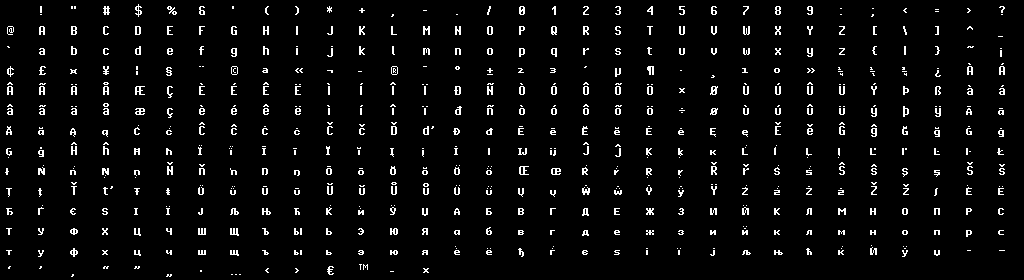
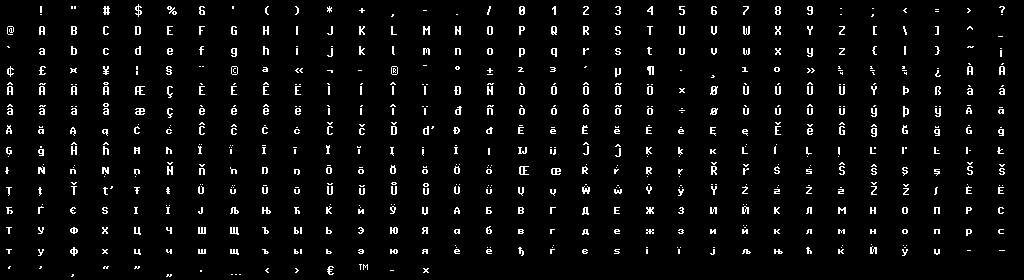
Russian pass: Cyrillic (and Pixeloid's other glyphs) lifted a pixel so its 7 px capitals sit centred where PixelOperator's 9 are (they sat a pixel low in every button); every column as wide as its words in either language (the stat names 43 for "Выносливость", the bars 20; the stats screen's now 21,

diff --git a/mods/animals/src/screen.rs b/mods/animals/src/screen.rs
@@ -496,17 +496,21 @@ const OVERVIEW_GAP: f32 = 6.0;
 const GENE_LINES: usize = 40;
 /// The Genes page's list: taller, it has the page to itself.
 const GENES_PAGE_H: f32 = 110.0;
-/// (28 wide, from 32, so the window fits 380 with its columns as wide as their headings.)
-const STAT_BAR: (f32, f32) = (28.0, 6.0);
+/// The stat names' column: as wide as the longest name in either language ("Выносливость" 42.5 GUI
+/// px: at 34 it was shrunk to 80%, the Russian pass); the bars 20 to make room, so the window still
+/// fits 380 with every column as wide as its words.
+const STAT_NAME_W: f32 = 43.0;
+const STAT_BAR: (f32, f32) = (20.0, 6.0);
 /// The stat rows' columns after the bar: the value (right-aligned), wild and tamed points
 /// (centred), then the + (GUI pixels).
-const STAT_VALUE_W: f32 = 18.0;
+/// ("152%" is 16.5 GUI px)
+const STAT_VALUE_W: f32 = 17.0;
 /// (as wide as their headings, "Wild" 13.5 and "Tamed" 19.5 GUI px: narrower, the row shrank them,
 /// PC runs fit1280 and fit760b)
 const STAT_WILD_W: f32 = 14.0;
 const STAT_TAMED_W: f32 = 20.0;
 /// A stat row's whole width, for the divider over torpor.
-const STAT_ROW_W: f32 = 8.0 + 3.0 + 34.0 + 3.0 + STAT_BAR.0 + 3.0 + STAT_VALUE_W + 3.0 + STAT_WILD_W + 3.0 + STAT_TAMED_W + 3.0 + 10.0;
+const STAT_ROW_W: f32 = 8.0 + 3.0 + STAT_NAME_W + 3.0 + STAT_BAR.0 + 3.0 + STAT_VALUE_W + 3.0 + STAT_WILD_W + 3.0 + STAT_TAMED_W + 3.0 + 10.0;
 
 /// The screen of a tame animal (`notes/ui/BATCHES.md`, the taming and stats upgrade): who it is
 /// and how it is on the left, its stats as bars in the middle, its coat and orders on the right.
@@ -668,7 +672,7 @@ fn animal_screen(ui: &mut Ui) {
             // the empty heading room beside it: in a row the longer Russian ones ("Дикий" 17.5,
             // "Ручной" 20.5 GUI px) were shrunk to the columns' 14 and 20.
             ui.row(S::row().size(STAT_ROW_W, 8.5), |ui| {
-                let wild = 8.0 + 3.0 + 34.0 + 3.0 + STAT_BAR.0 + 3.0 + STAT_VALUE_W + 3.0;
+                let wild = 8.0 + 3.0 + STAT_NAME_W + 3.0 + STAT_BAR.0 + 3.0 + STAT_VALUE_W + 3.0;
                 let tamed = wild + STAT_WILD_W + 3.0;
                 for (x, w, key) in [(wild, STAT_WILD_W, "screen.animals.wild_points"), (tamed, STAT_TAMED_W, "screen.animals.tamed_points")] {
                     ui.text_styled(S::default().class("dim").no_wrap().at_pivot(x + w / 2.0, 0.0, [0.5, 0.0]), key, &[]);
@@ -680,7 +684,7 @@ fn animal_screen(ui: &mut Ui) {
                 }
                 ui.row(S::row().gap(3.0).center(), |ui| {
                     ui.image(&format!("base:gui/stat_icon_{name}"), 8.0, 8.0);
-                    ui.text_styled(S::default().w(34.0).no_wrap(), &format!("stat.animals.{name}"), &[]);
+                    ui.text_styled(S::default().w(STAT_NAME_W).no_wrap(), &format!("stat.animals.{name}"), &[]);
                     ui.row(S::row().size(STAT_BAR.0, STAT_BAR.1), move |ui| {
                         // One bar per quality on the same place: the one matching its wild points shows.
                         for q in 0..5usize {
@@ -1258,7 +1262,8 @@ fn taming_hud(r: &mut Registry) {
                     t.set("hud.animals.taming.who", &[Arg::Key(&format!("entity.animals.{}", s.kind_name()))]);
                 });
                 ui.row(S::row().gap(3.0).center(), |ui| {
-                    ui.text_bind_styled(S::default().w(30.0).no_wrap(), |c, t| {
+                    // as wide as "Приручено" (31 GUI px; at 30 it was shrunk, the Russian pass)
+                    ui.text_bind_styled(S::default().w(32.0).no_wrap(), |c, t| {
                         if being_tamed(c).is_some() { t.set("hud.animals.taming.bar", &[]) } else { t.text("") }
                     });
                     ui.progress_bind("life_taming", S::default().size(LIFE_BAR.0, LIFE_BAR.1), |c| {

diff --git a/mods/base/src/levels.rs b/mods/base/src/levels.rs
@@ -245,8 +245,12 @@ fn after(v: &base_api::Vitals) -> base_api::Vitals {
 
 /// The stats screen's columns after the bar (GUI pixels): the value now (right-aligned), its unit,
 /// the value after the waiting points (right-aligned), the points waiting (centred).
-const NOW_W: f32 = 18.0;
-const UNIT_W: f32 = 16.0;
+/// (as wide as their words in either language: "сейчас" 20.5 and "units" 17.5 GUI px were shrunk
+/// at 18 and 16, the Russian pass)
+const NOW_W: f32 = 21.0;
+/// The stat names' column, as wide as the longest in either language ("Выносливость", 42.5 GUI px).
+const NAME_W: f32 = 43.0;
+const UNIT_W: f32 = 18.0;
 const AFTER_W: f32 = 18.0;
 const WAITING_W: f32 = 8.0;
 
@@ -329,7 +333,7 @@ fn client(r: &mut Registry) {
                 // The header in the rows' columns: "now" over the values, "after" over what the
                 // waiting points make of them, each lined up as its values are (right).
                 ui.row(S::row().gap(4.0), |ui| {
-                    ui.row(S::row().w(8.0 + 4.0 + 40.0 + 4.0 + STAT_BAR.0), |_| {});
+                    ui.row(S::row().w(8.0 + 4.0 + NAME_W + 4.0 + STAT_BAR.0), |_| {});
                     ui.row(S::row().w(NOW_W).end(), |ui| ui.text_styled(S::default().class("dim").no_wrap(), "levels.base.now_head", &[]));
                     ui.row(S::row().w(UNIT_W), |_| {});
                     ui.row(S::row().w(AFTER_W).end(), |ui| {
@@ -339,7 +343,7 @@ fn client(r: &mut Registry) {
                 for (i, stat) in stats::ALL.into_iter().enumerate() {
                     ui.row(S::row().gap(4.0).center(), |ui| {
                         ui.image(&format!("base:gui/stat_icon_{}", stat.name()), 8.0, 8.0);
-                        ui.text_styled(S::default().w(40.0).no_wrap(), &format!("stat.base.{}", stat.name()), &[]);
+                        ui.text_styled(S::default().w(NAME_W).no_wrap(), &format!("stat.base.{}", stat.name()), &[]);
                         ui.progress_bind(
                             Box::leak(format!("stat_{}", stat.name()).into_boxed_str()),
                             S::default().size(STAT_BAR.0, STAT_BAR.1),

diff --git a/mods/base/source/ui/font_bake.py b/mods/base/source/ui/font_bake.py
@@ -154,8 +154,12 @@ def pixel_main(path, also=None):
             if c != " " and not has_glyph(p, c):
                 continue
             img = Image.new("L", (cw, ch))
-            # every font's baseline on the first one's
-            ImageDraw.Draw(img).text((PAD, top + ascent - f.getmetrics()[0]), c, font=f, fill=255)
+            # every font's baseline on the first one's, a font with smaller capitals lifted by half
+            # the difference so its capitals sit centred where the first one's are (Pixeloid's
+            # Cyrillic capitals are 7 px to PixelOperator's 9: on the same baseline they sat a pixel
+            # low in every button, the Russian pass, 11-04)
+            lift = (cap_h - (f.getbbox("H")[3] - f.getbbox("H")[1])) // 2 if f is not f0 else 0
+            ImageDraw.Draw(img).text((PAD, top + ascent - f.getmetrics()[0] - lift), c, font=f, fill=255)
             img = img.point(lambda v: 255 if v >= 128 else 0)
             a = np.asarray(img)
             cols = np.nonzero(a.max(0))[0]

diff --git a/crates/engine/src/ui/mod.rs b/crates/engine/src/ui/mod.rs
@@ -860,7 +860,7 @@ impl Ui {
     }
 }
 
-/// Logs, once per text, that a no-wrap text was shrunk to fit a box narrower than its words.
+/// Logs, once per text and box width, that a no-wrap text was shrunk to fit a box narrower than its words.
 fn squeezed(text: &str, scale: f32, width: f32) {
     thread_local! {
         static SAID: std::cell::RefCell<rustc_hash::FxHashSet<String>> = Default::default();
@@ -869,7 +869,8 @@ fn squeezed(text: &str, scale: f32, width: f32) {
         return;
     }
     SAID.with(|s| {
-        if s.borrow_mut().insert(text.to_string()) {
+        // per text and box: the same words can be too wide for one box and fit another
+        if s.borrow_mut().insert(format!("{text}\u{0}{width:.1}")) {
             log::warn!("ui: \"{text}\" squeezed to {:.0}% to fit {width:.1} GUI px", scale * 100.0);
         }
     });
